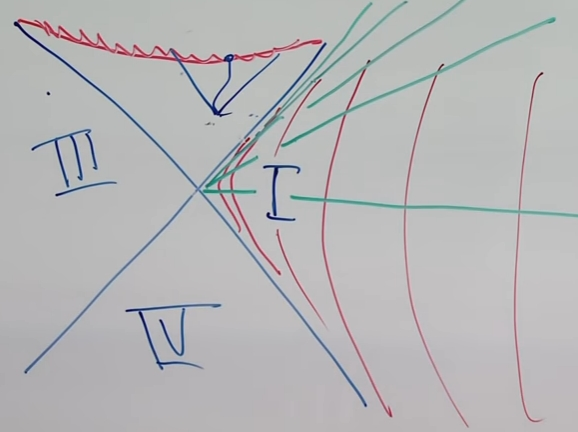
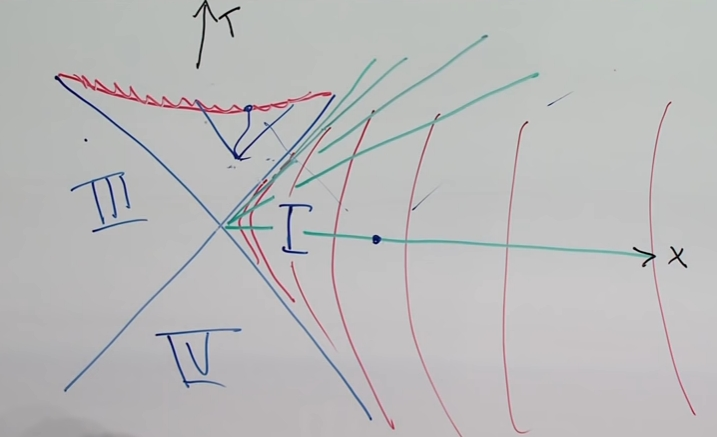
Issue #7 lecture 8 https://youtu.be/q6j180O9H84?list=PLpGHT1n4-mAvcXwzOIz3dHnGZaQP1LEib&t=987

diff --git a/tm/gr.tex b/tm/gr.tex
@@ -1543,11 +1543,48 @@ Figure \ref{fig:gr-8-4quadrants} shows the neighbourhood of a black hole. Anyone
 Inside the black hole there is no way out unless you exceed the speed of light--Figure \ref{fig:gr-8-quadrant1}.
 
 \begin{figure}[H]
-	\caption{Inside the black hole there is no way out unless you exceed the speed of light. The singularity is shown in red.}\label{fig:gr-8-quadrant1}
-	\includegraphics[width=0.5\textwidth]{gr-8-quadrant1}
+	\begin{center}
+		\caption[Inside the black hole ]{Inside the black hole there is no way out unless you exceed the speed of light. The singularity is shown in red. $T$ and $X$ are the coordinates seen be a freely falling observer (until they hit the singularity). The space looks flat from the perspective of a freely falling observer.}\label{fig:gr-8-quadrant1}
+		\includegraphics[width=0.5\textwidth]{gr-8-quadrant1}
+	\end{center}
 \end{figure}
 
-\url{https://youtu.be/q6j180O9H84?list=PLpGHT1n4-mAvcXwzOIz3dHnGZaQP1LEib&t=366}
+It is convenient to redraw this picture, as space is infinite. Even though time comes to an end at the singularity, the light-like directions are also infinite.
+
+\subsection{Penrose Diagrams}
+We will start by recoordinatizing flat space-time.
+
+This is useful when we have rotational symmetry, when we dpn't want to think about the angular directions.
+
+\begin{figure}[H]
+	\begin{center}
+		\caption{Radial Symmetry}
+		\begin{subfigure}[t]{0.3\textwidth}
+			\caption{Polar coordinates. No negative r}\label{fig:gr-8-radial-symmetry}
+			\includegraphics[width=\textwidth]{gr-8-radial-symmetry}
+		\end{subfigure}
+		\begin{subfigure}[t]{0.3\textwidth}
+			\caption{Polar coordinates. A light ray comes in from infinity, and goes out again.}\label{fig:gr-8-radial-symmetry-light-ray}
+			\includegraphics[width=\textwidth]{gr-8-radial-symmetry-light-ray}
+		\end{subfigure}
+		\begin{subfigure}[t]{0.3\textwidth}
+			\caption{Light ray \emph{apparently} reflected (in reality it just continues out again as shown in Figure \ref{fig:gr-8-radial-symmetry-light-ray})}\label{fig:gr-8-radial-symmetry-light-ray-bounce}
+			\includegraphics[width=\textwidth]{gr-8-radial-symmetry-light-ray-bounce}
+		\end{subfigure}
+		\begin{subfigure}[t]{0.3\textwidth}
+			\caption{A light ray that misses the origin}\label{fig:gr-8-light-ray-missing-origin}
+			\includegraphics[width=\textwidth]{gr-8-light-ray-missing-origin}
+		\end{subfigure}
+		\begin{subfigure}[t]{0.3\textwidth}
+			\caption{A light ray that misses the origin (hyperbola)}\label{fig:gr-8-light-ray-missing-origin-tr}
+			\includegraphics[width=\textwidth]{gr-8-light-ray-missing-origin-tr}
+		\end{subfigure}
+	
+	\end{center}
+
+\end{figure}
+
+\url{https://youtu.be/q6j180O9H84?list=PLpGHT1n4-mAvcXwzOIz3dHnGZaQP1LEib&t=987}
 
 \subsection{Formation of a black hole}.
 
